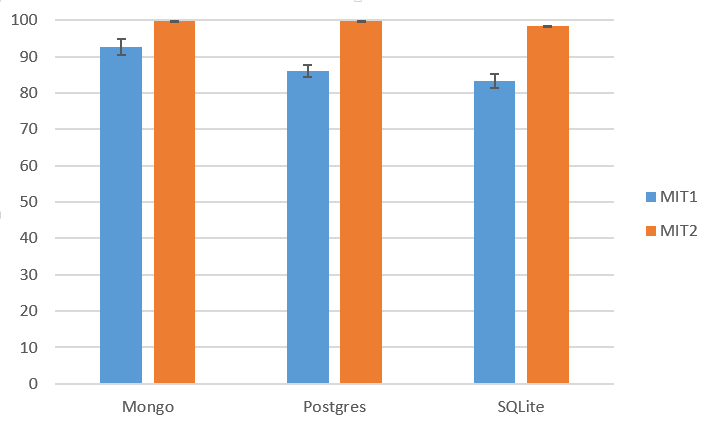
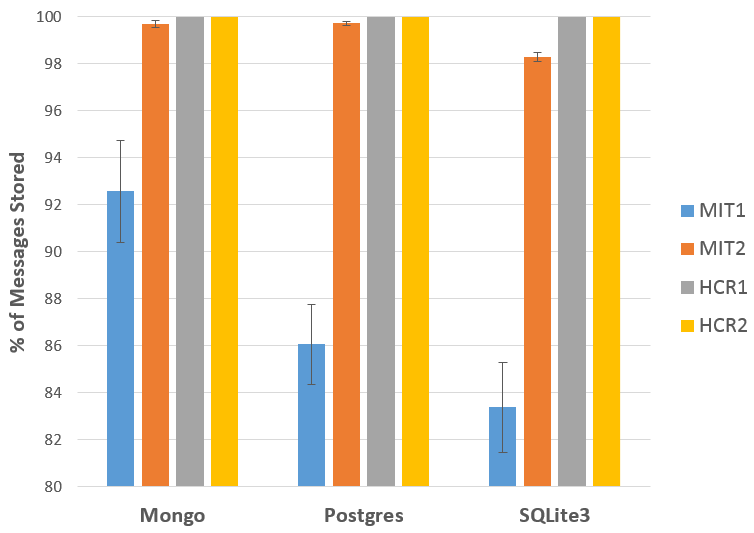
Updates to real world performance section

diff --git a/main.tex b/main.tex
@@ -122,7 +122,7 @@ The previous section stress tested each of the databases by generating a fixed n
 \begin{figure}
     \centering
     \includegraphics[width=\linewidth]{images/realworld}
-    \caption{Percentage of Messages Persisted Across Four Real World Datasets. \textit{MIT1} and \textit{MIT2} are bagfiles from the MIT Stata center dataset and \textit{HCR1} and \textit{HCR2} are bagfiles from previous robotics experiments run in the Human-Centered Robotics Lab at the University of Washington.}
+    \caption{Percentage of Messages Persisted Across Four Real World Datasets. \textit{MIT1} and \textit{MIT2} are bagfiles from the MIT Stata center dataset and \textit{HCR1} and \textit{HCR2} are bagfiles from previous robotics experiments run in the Human-Centered Robotics Lab at the University of Washington. Note that the vertical axis shows the range (80, 100).}
     \label{fig:realworld}
 \end{figure}
 
@@ -134,6 +134,61 @@ Up to this point, the major set of work completed in this project has been in de
 
 \subsubsection{Robotics Query Performance}
 We want to explore the expressivity of the query functionality for each database in addition to the time required to execute several representative queries over ROS message datasets. One set of queries we would like to test is retrieving messages based on values inside the messages. Clearly, any database system used for logging ROS messages will need to have the ability to query over JSON messages. Another set of queries to try is to retrieve a set of messages between two points in time. However, we are still considering what kinds of queries would be more interesting. This is challenging because ROS messages tend to represent readings from different sensors, which are not synchronized to produce messages at the same time. Therefore, it is hard to compute joins across different types of sensors. For example, one topic might receive a message whenever the robot's gripper is opened or closed, which occurs infrequently, while another topic might output the position of the robot's gripper in 3D space, which is output many times a second. An example of an interesting query would be to compute how much time is spent moving the robot's gripper while it is open. However, it's not clear how to write this query in any of the database systems we're evaluating. As a result, we may just evaluate how easy and efficient it is to query for data, such that we can manually compute the answers to more complex queries.
+
+Queries:
+\begin{itemize}
+\item Get the number of times the right gripper was closed
+\item Get the amount of time the camera was behind the robot
+\item Get the number of times the right gripper was moved while in a particular region
+\item Get the number of times a grasp was attempted with the right when the camera was in front of the robot (+/- 0.1 seconds)
+\end{itemize}
+
+% Query:
+% select sum(foo.count) from (select count(*) from r_gripper_controller__command where CAST(data::json->>'position' AS real)=0 union select count(*) from l_gripper_controller__command where CAST(data::json->>'position' AS real)=0) as foo;
+% Result: 10
+
+Complex queries: how to compute number of times the camera was moved, by counting number of runs of changing values.
+
+% MongoDB
+% Get the number of times the right gripper was closed
+% db.runCommand({count: 'r_gripper_controller__command', query: {'position': 0.0}})
+% { "n" : 3, "ok" : 1 }
+% millis: 0
+
+% Get the amount of time where the camera was behind the robot.
+% db.runCommand({count: 'rviz_camera_publisher__camera_pose', query: {'position.x': {$lte: 0}}})
+% { "n" : 1292, "ok" : 1 }
+% millis: 19
+
+% Get the number of times the right gripper was moved in a particular region
+% db.runCommand({count: 'r_cart__command_pose', query: {'pose.position.z': {$gt: 1}, 'pose.position.y': {$gt: -0.5, $lt: 0.5}, 'pose.position.x': {$gt: 0.5, $lt: 1}}})
+% millis: 2
+
+% Get the number of times a grasp was attempted with the right gripper when the camera was in front of the robot 
+% 
+
+% SQLite3:
+%
+%   --Count msgs where position.x <= 0
+%   SELECT COUNT(*) 
+%   FROM rviz_camera_publisher__camera_pose
+%   WHERE json_le_field(msg, 'position.x', 0);
+%
+%   result: 1292, 124.76ms (3179.27ms on first run)
+%
+%   --Count msgs where position.x >= 0
+%   SELECT COUNT(*) 
+%   FROM rviz_camera_publisher__camera_pose
+%   WHERE json_ge_field(msg, 'position.x', 0);
+%
+%   result: 11275, 121.25ms
+%
+%   --Count msgs where header.stamp.secs >= 1400729704
+%   SELECT COUNT(*) 
+%   FROM head_mount_kinect__rgb__image_color__compressed
+%   WHERE json_ge_field(msg, header.stamp.secs, 1400729704);
+%
+%   result: 8678, 2074.9ms
 
 
 %\section{Discussion}
